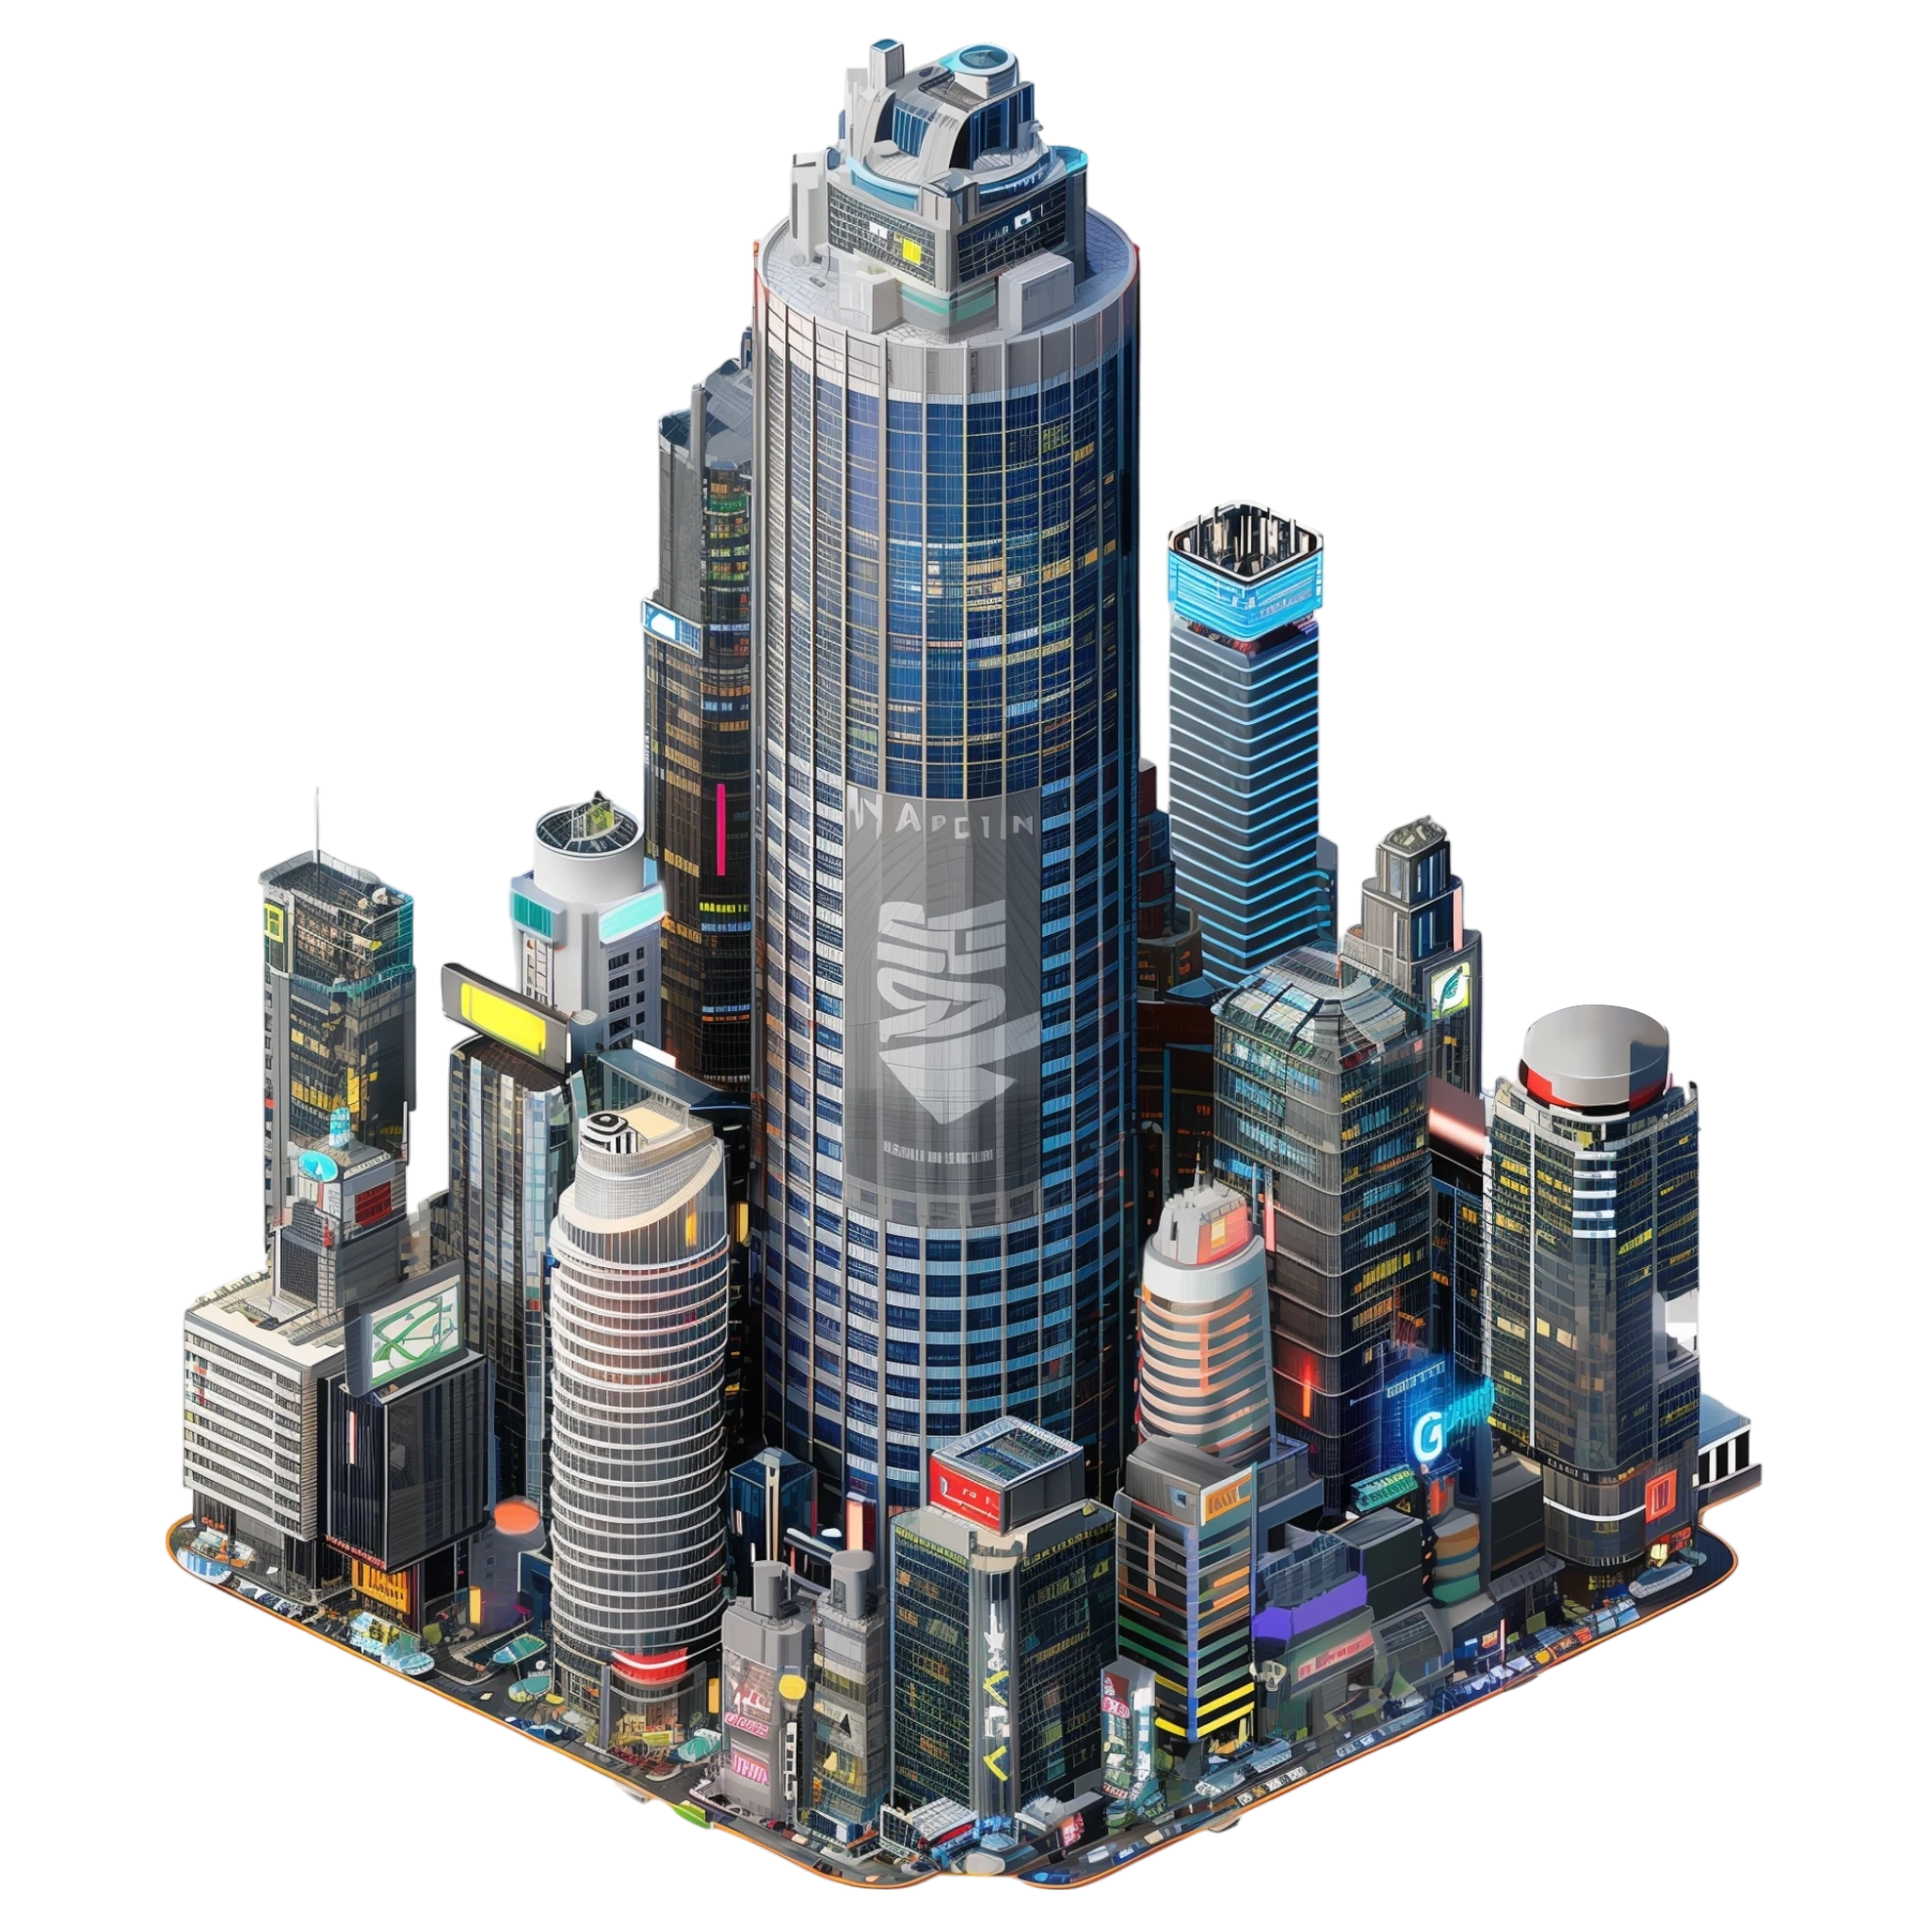
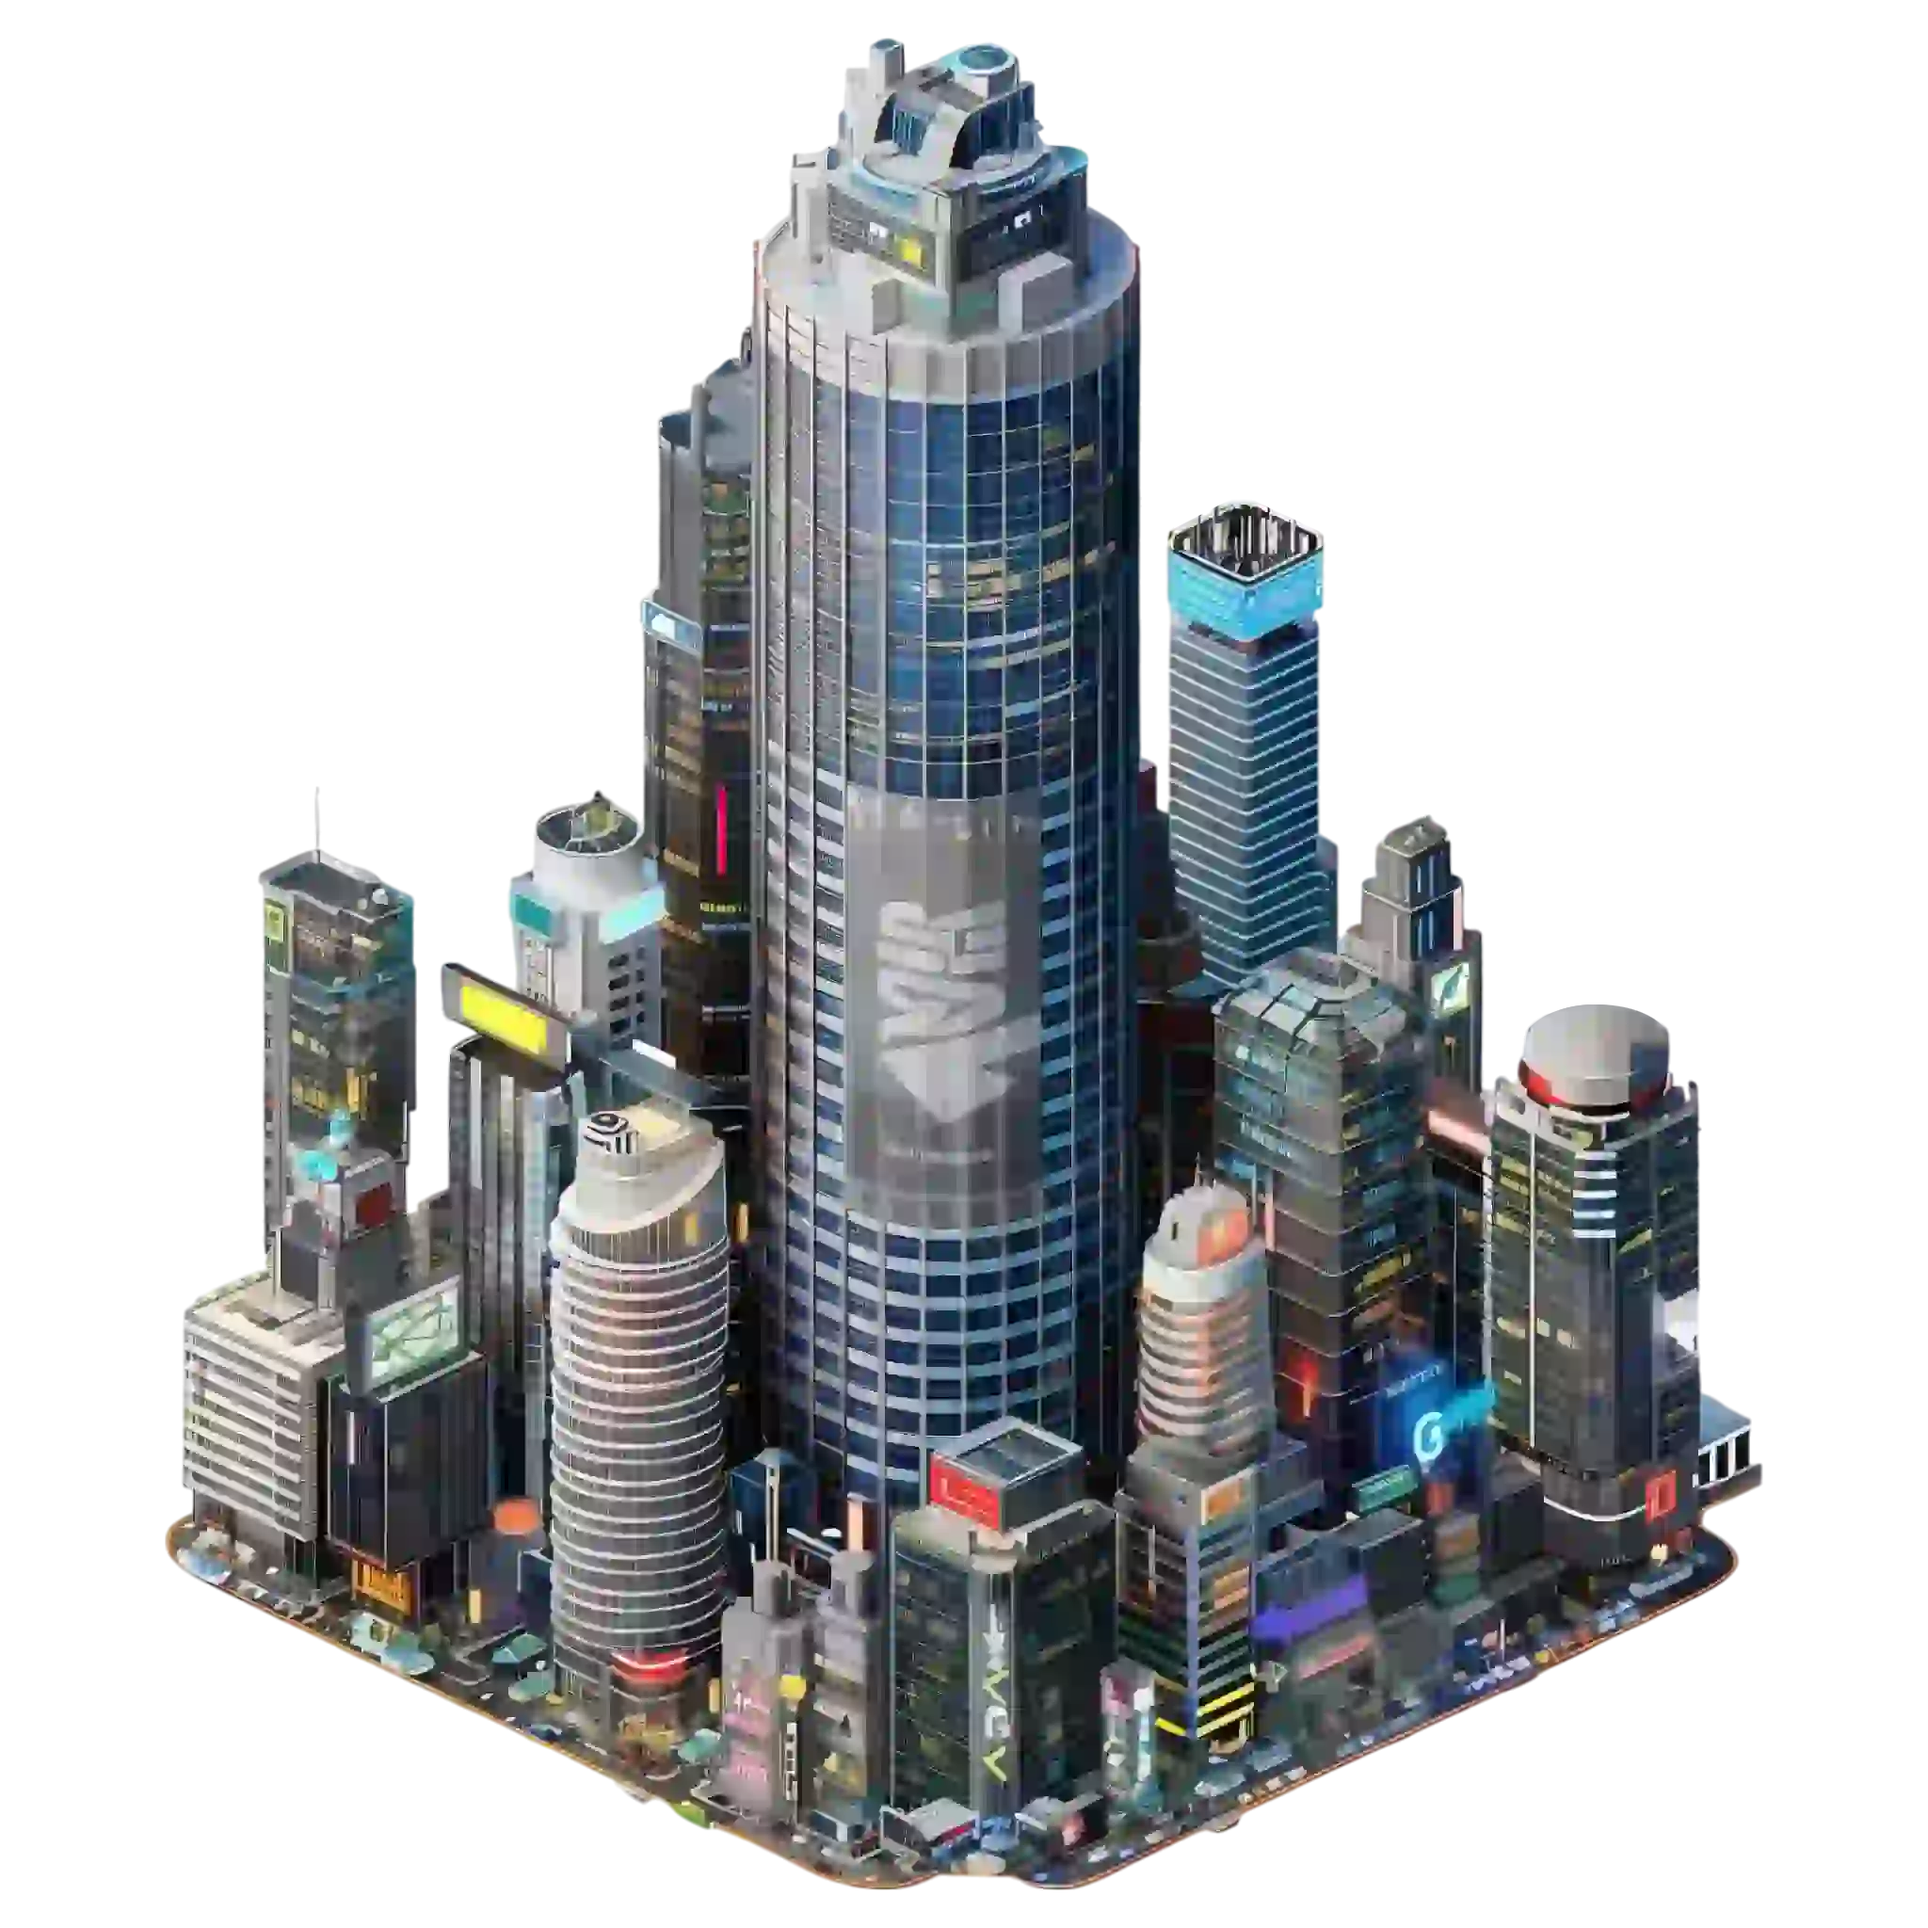
fix: optimize all the images

Changed region(s): [[0.0625, 0.0312, 0.9062, 1.0], [0.4688, 0.5, 0.5, 0.5312]]

diff --git a/src/components/hero-images.tsx b/src/components/hero-images.tsx
@@ -39,7 +39,7 @@ export function HeroImages() {
       visibility="both"
       size={25}
       hideScrollBar
-      className="relative z-20"
+      className="relative z-20 overflow-x-hidden"
     >
       <div className="flex max-w-full -translate-x-[200%] items-center justify-start">
         {categoryImages.map(({ id, categoryImage }, i) => (
@@ -50,7 +50,7 @@ export function HeroImages() {
             animate={i === 2 ? { opacity: 1 } : { opacity: 0 }}
             transition={{ duration: 1, layout: { duration: 0.5 } }}
           >
-            <img
+            <Image
               className="object-fit object-center"
               alt="hero image"
               src={categoryImage}

diff --git a/src/components/footer.tsx b/src/components/footer.tsx
@@ -79,7 +79,7 @@ export function Footer() {
             <div className="flex items-center justify-between">
               <div className="flex items-center gap-6">
                 <Image
-                  src="/images/named-logo.png"
+                  src="/images/named-logo.webp"
                   alt="logo"
                   height={80}
                   width={160}

diff --git a/src/app/layout.tsx b/src/app/layout.tsx
@@ -40,7 +40,7 @@ export default function RootLayout({
           </AuthContextProvider>
         </Providers>
         <div
-          className="fixed inset-0 z-0 h-full w-full bg-[url('/images/bg-gradient.png')] 
+          className="fixed inset-0 z-0 h-full w-full bg-[url('/images/bg-gradient.webp')] 
           bg-cover bg-center opacity-40"
         />
       </body>

diff --git a/src/components/newsletter.tsx b/src/components/newsletter.tsx
@@ -20,7 +20,7 @@ export function Newsletter() {
       className="flex-row items-center gap-10 p-6"
     >
       <Image
-        src="/images/newsletter.png"
+        src="/images/newsletter.webp"
         alt="newsletter image"
         quality={95}
         height={500}

diff --git a/src/components/main-nav.tsx b/src/components/main-nav.tsx
@@ -39,7 +39,7 @@ export function MainNav() {
     >
       <Link href="/">
         <Image
-          src="/images/named-logo.png"
+          src="/images/named-logo.webp"
           alt="logo"
           height={80}
           width={160}
